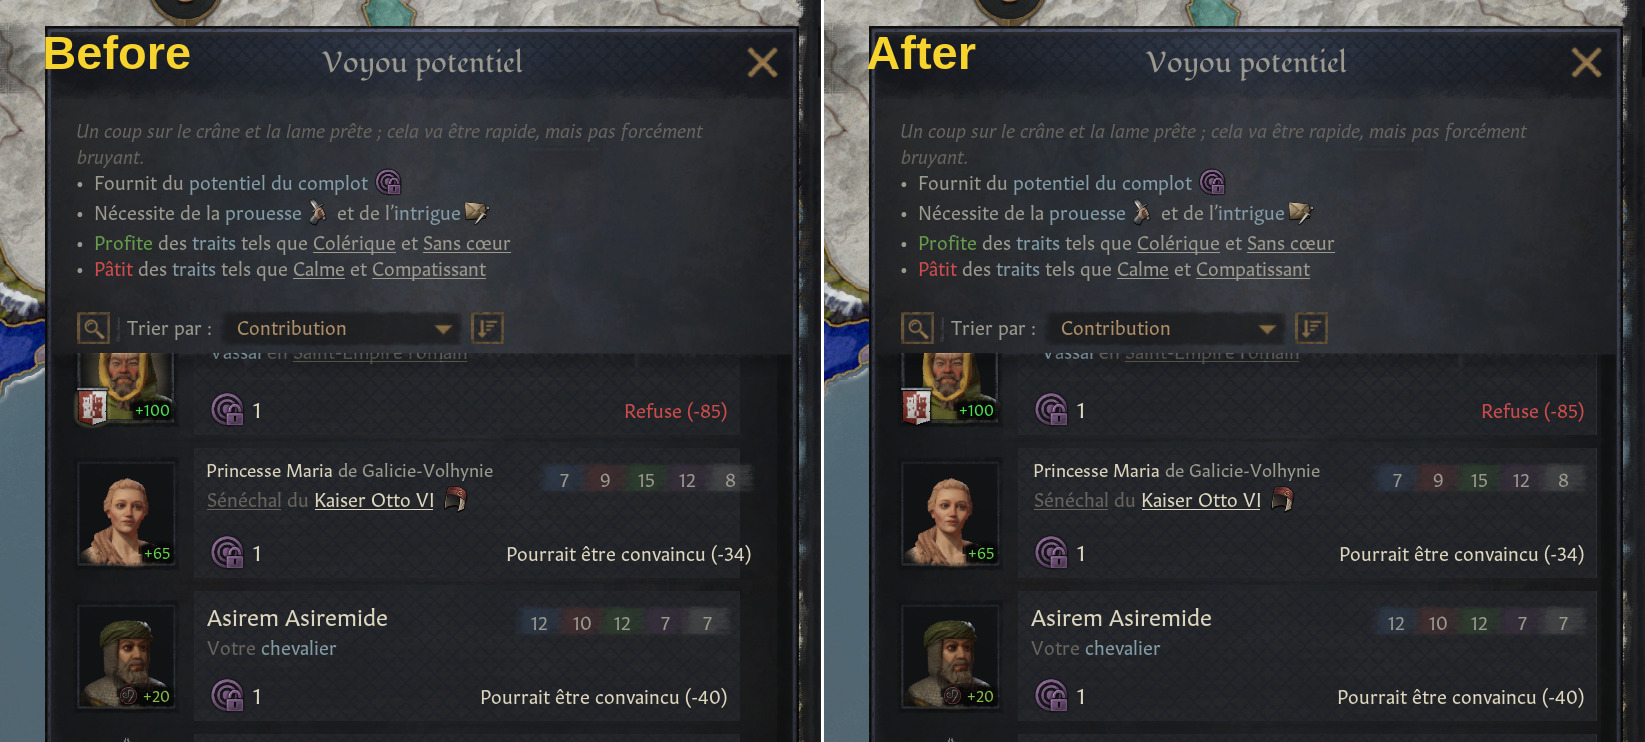
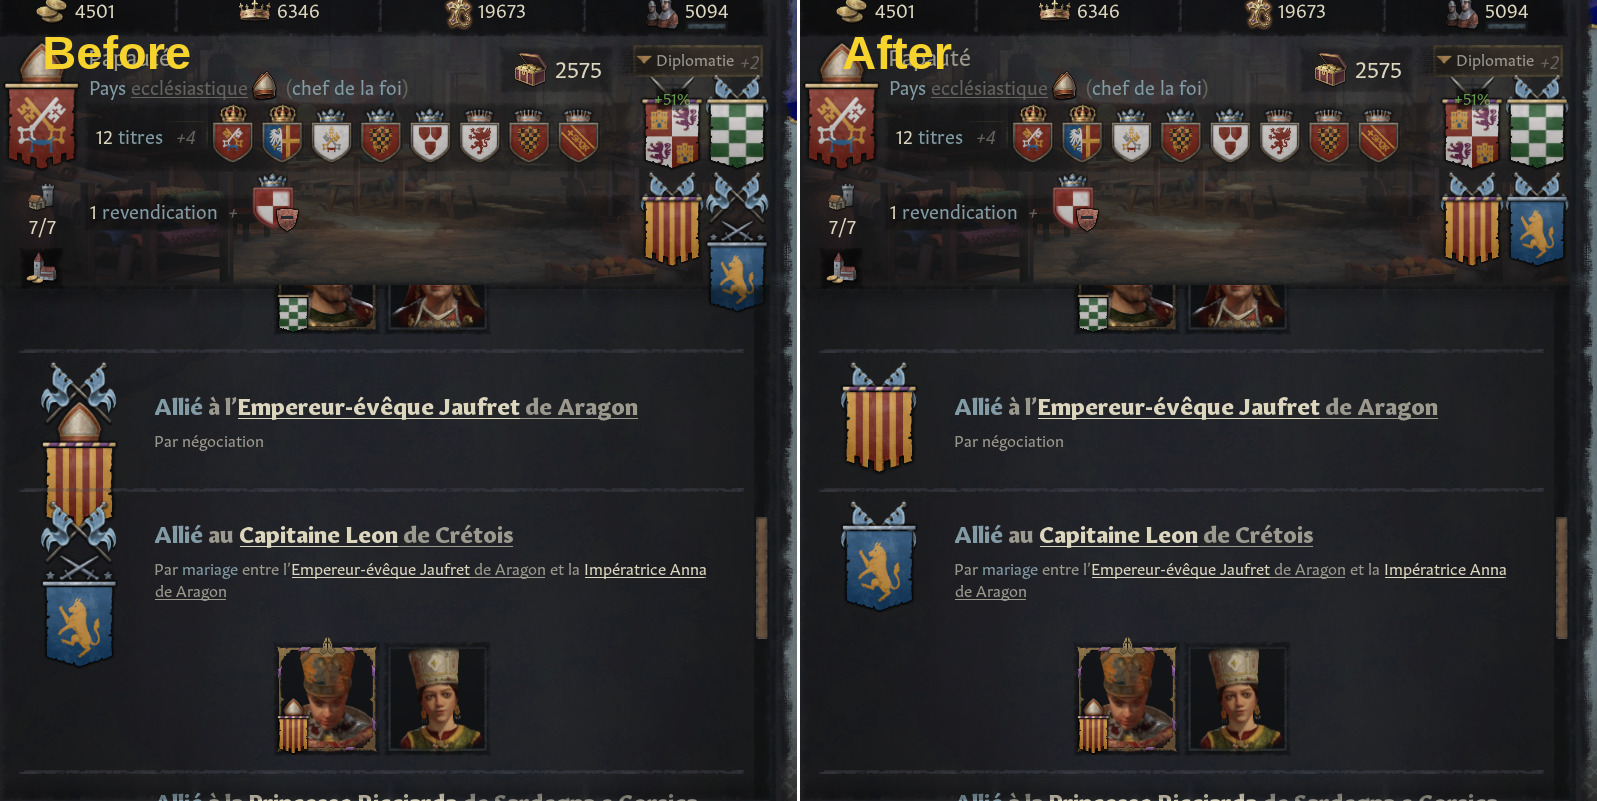
feat: montée en version

diff --git a/README.md b/README.md
@@ -10,6 +10,7 @@ Lorsque c'est possible, les corrections sont appliquées aux textes plutôt qu'a
 - Intrigue : taille des colonnes et des éléments de la liste des agents potentiels corrigée pour se caler sur l'UI des fantoches.
 - Paramètres des messages : l'interface ne dépasse plus de la fenêtre.
 - Personnage : les emblèmes des pays mercenaires n'affichent plus une décoration dans la partie diplomatie qui décale tout l'affichage.
+- Personnage : les emblèmes de la diplomatie ne sortent plus de leur cadre si les personnages ont plus de 7 revendications
 - Religions : le texte d'attitude envers les rites est affiché en entier.
 
 ![Paramètres des messages avant et après correction](screenshots/screenshot1.jpg)
@@ -36,9 +37,11 @@ Lorsque c'est possible, les corrections sont appliquées aux textes plutôt qu'a
 ## Événements
 
 - `coronation_events.0100` "Un serment historique" : correction des libellés tronqués des serments "Subvenir aux besoins des pauvres", "Subvenir aux besoins des fidèles" et "Devenir le meilleur chasseur".
+- `pam_decision_events.0006.desc.secret_sin` "Derniers sacrements" : reformulation d'une phrase maladroite pour la confession d'une liaison
 - `pam_secular_faith_events.0014` "Jugement prophétique" : correction de l'affichage de l'option 1, dont tout le texte est désormais visible.
 - `pam_the_christian_church.*` : correction de toutes les occurrences de "l'Chrétienté" en "la Chrétienté".
 
 ## Divers
 
 - Fix de tous les articles pour les titres ecclésiastiques ("L'Prince-Archevêque", "L'Cardinal", "Le Archevêque", etc) dans les évènements et les interfaces
+- Fix préfixe `Need` anglais devant les warnings de conditions
